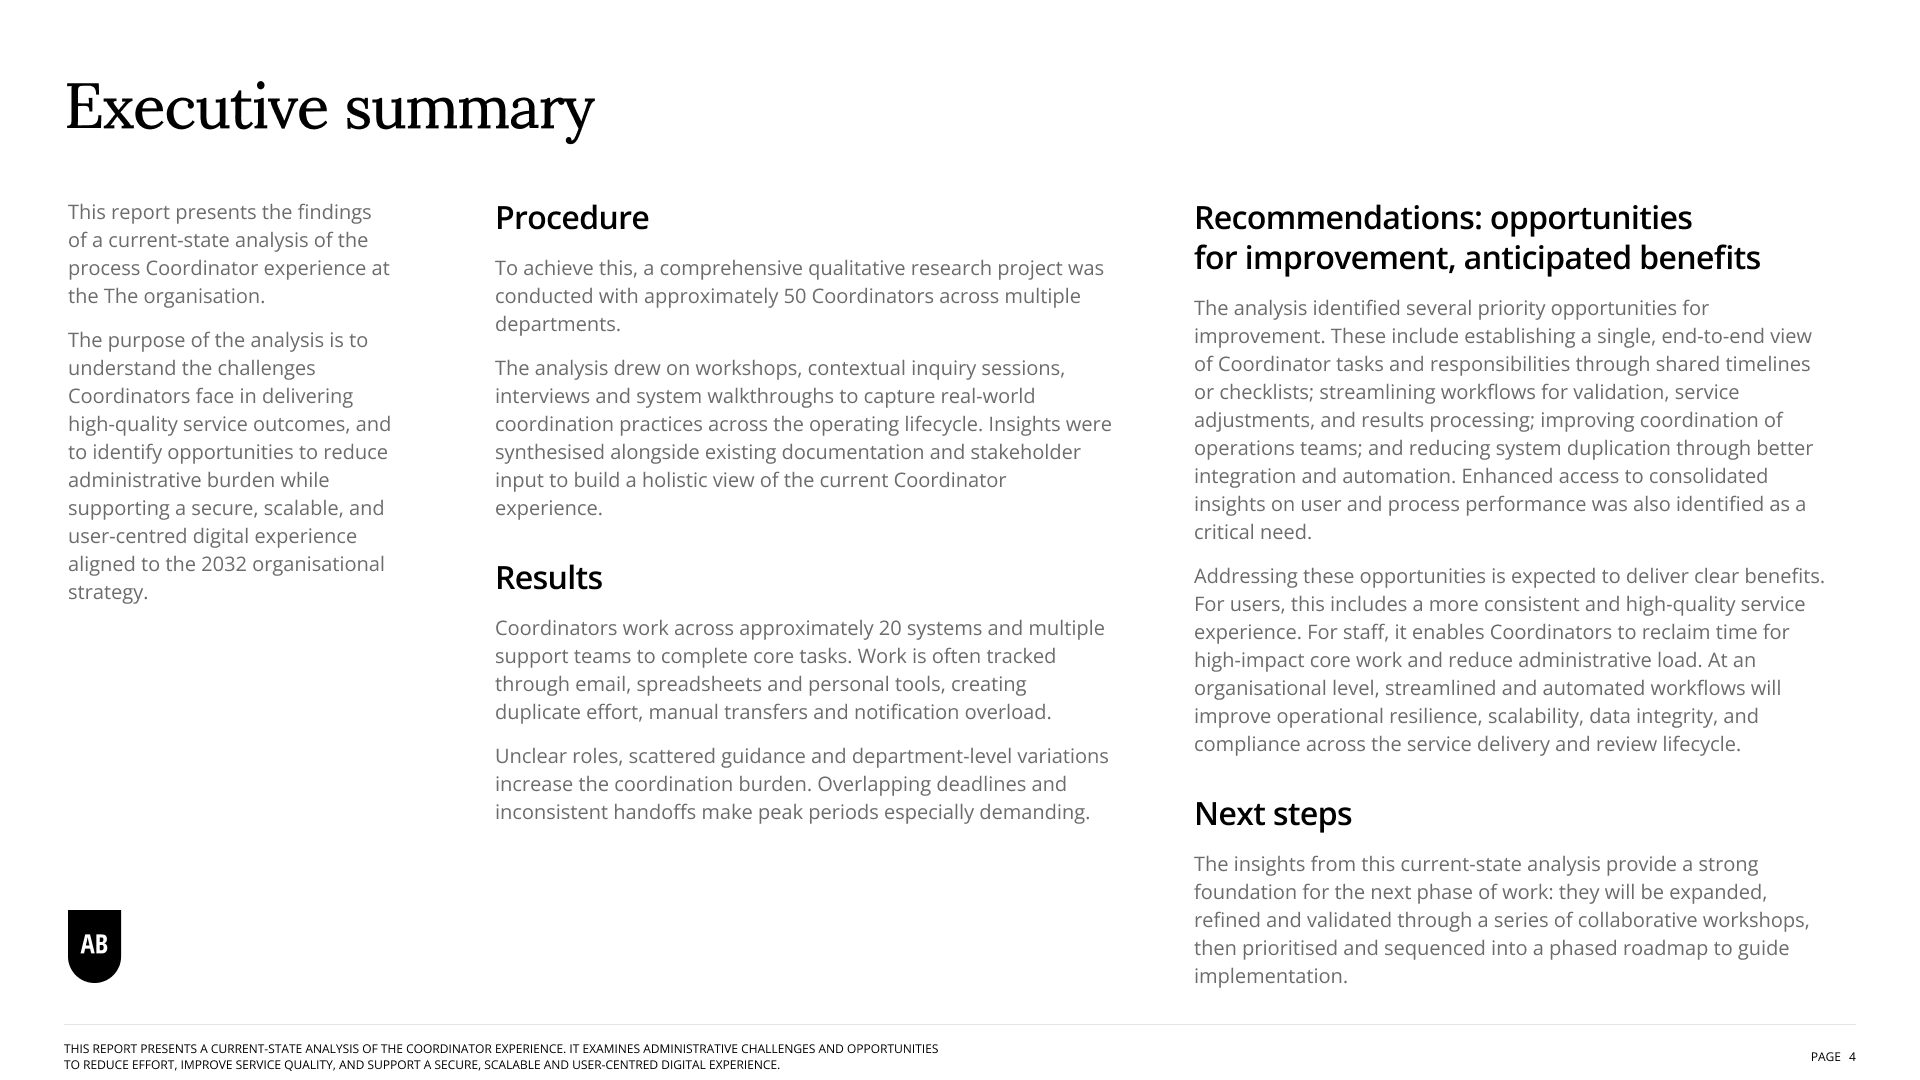
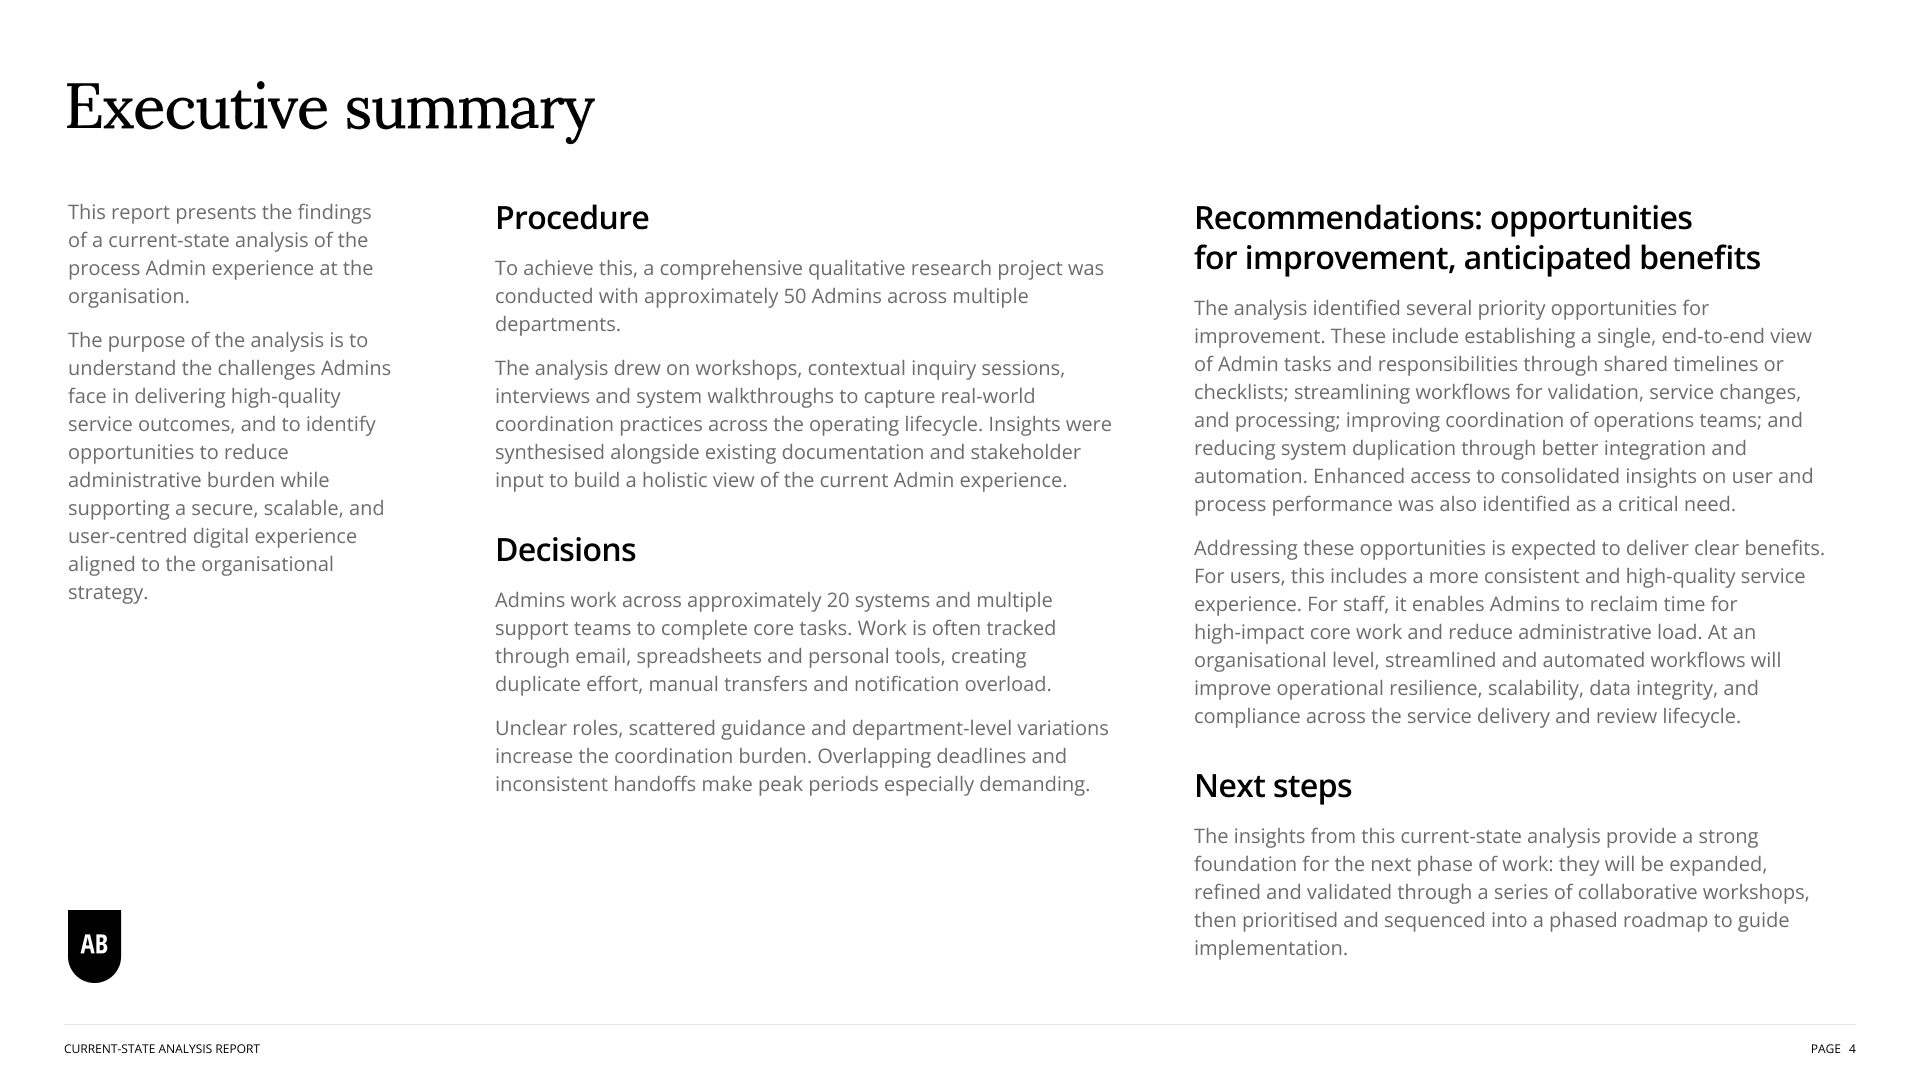
Education case: 16-page white-labelled subset of the report with NDA note; updated journey map and key tasks

diff --git a/projects/education-client/index.html b/projects/education-client/index.html
@@ -511,56 +511,20 @@
           <img src="assets/report/slide-02.jpg" width="1920" height="1080" loading="lazy" alt="Slide 2: Contents">
           <img src="assets/report/slide-03.jpg" width="1920" height="1080" loading="lazy" alt="Slide 3: 01. Executive summary">
           <img src="assets/report/slide-04.jpg" width="1920" height="1080" loading="lazy" alt="Slide 4: Executive summary">
-          <img src="assets/report/slide-05.jpg" width="1920" height="1080" loading="lazy" alt="Slide 5: 02. Context">
-          <img src="assets/report/slide-06.jpg" width="1920" height="1080" loading="lazy" alt="Slide 6: Context">
-          <img src="assets/report/slide-07.jpg" width="1920" height="1080" loading="lazy" alt="Slide 7: Aligned to Digital Operations strategy">
-          <img src="assets/report/slide-08.jpg" width="1920" height="1080" loading="lazy" alt="Slide 8: Business capabilities: operations and service">
-          <img src="assets/report/slide-09.jpg" width="1920" height="1080" loading="lazy" alt="Slide 9: 03. Methodology">
-          <img src="assets/report/slide-10.jpg" width="1920" height="1080" loading="lazy" alt="Slide 10: 3.1 Stakeholder engagement and sources of insight for the current state">
-          <img src="assets/report/slide-11.jpg" width="1920" height="1080" loading="lazy" alt="Slide 11: Alignment to personas">
-          <img src="assets/report/slide-12.jpg" width="1920" height="1080" loading="lazy" alt="Slide 12: Activities overview">
-          <img src="assets/report/slide-13.jpg" width="1920" height="1080" loading="lazy" alt="Slide 13: Activities overview (continued)">
-          <img src="assets/report/slide-14.jpg" width="1920" height="1080" loading="lazy" alt="Slide 14: Support team workshops">
-          <img src="assets/report/slide-15.jpg" width="1920" height="1080" loading="lazy" alt="Slide 15: Key user and stakeholder groups">
-          <img src="assets/report/slide-16.jpg" width="1920" height="1080" loading="lazy" alt="Slide 16: Document review">
-          <img src="assets/report/slide-17.jpg" width="1920" height="1080" loading="lazy" alt="Slide 17: Systems walkthrough">
-          <img src="assets/report/slide-18.jpg" width="1920" height="1080" loading="lazy" alt="Slide 18: 3.2 Coordinator experience aspects and analysis approach">
-          <img src="assets/report/slide-19.jpg" width="1920" height="1080" loading="lazy" alt="Slide 19: User journey">
-          <img src="assets/report/slide-20.jpg" width="1920" height="1080" loading="lazy" alt="Slide 20: Admin process improvement aspects">
-          <img src="assets/report/slide-21.jpg" width="1920" height="1080" loading="lazy" alt="Slide 21: Our approach">
-          <img src="assets/report/slide-22.jpg" width="1920" height="1080" loading="lazy" alt="Slide 22: Alignment to business capabilities">
-          <img src="assets/report/slide-23.jpg" width="1920" height="1080" loading="lazy" alt="Slide 23: 04. Key findings">
-          <img src="assets/report/slide-24.jpg" width="1920" height="1080" loading="lazy" alt="Slide 24: Fragmented systems and processes create an admin burden that takes coordinators away from high-value service delivery">
-          <img src="assets/report/slide-25.jpg" width="1920" height="1080" loading="lazy" alt="Slide 25: Adapted participant insights">
-          <img src="assets/report/slide-26.jpg" width="1920" height="1080" loading="lazy" alt="Slide 26: Adapted insights: future state">
-          <img src="assets/report/slide-27.jpg" width="1920" height="1080" loading="lazy" alt="Slide 27: Key pain points and system-related challenges">
-          <img src="assets/report/slide-28.jpg" width="1920" height="1080" loading="lazy" alt="Slide 28: What drives complexity across admin workflows?">
-          <img src="assets/report/slide-29.jpg" width="1920" height="1080" loading="lazy" alt="Slide 29: Root causes">
-          <img src="assets/report/slide-30.jpg" width="1920" height="1080" loading="lazy" alt="Slide 30: Key systems and applications">
-          <img src="assets/report/slide-31.jpg" width="1920" height="1080" loading="lazy" alt="Slide 31: Department system variation">
-          <img src="assets/report/slide-32.jpg" width="1920" height="1080" loading="lazy" alt="Slide 32: Support team perspectives">
-          <img src="assets/report/slide-33.jpg" width="1920" height="1080" loading="lazy" alt="Slide 33: 4.1 Key findings by Coordinator experience aspect">
-          <img src="assets/report/slide-34.jpg" width="1920" height="1080" loading="lazy" alt="Slide 34: Aspect 01: Process design and review">
-          <img src="assets/report/slide-35.jpg" width="1920" height="1080" loading="lazy" alt="Slide 35: Aspect 02: Managing operations staff">
-          <img src="assets/report/slide-36.jpg" width="1920" height="1080" loading="lazy" alt="Slide 36: Aspect 03: Timetabling">
-          <img src="assets/report/slide-37.jpg" width="1920" height="1080" loading="lazy" alt="Slide 37: Aspect 04: Managing process materials">
-          <img src="assets/report/slide-38.jpg" width="1920" height="1080" loading="lazy" alt="Slide 38: Aspect 05: Understanding user progress">
-          <img src="assets/report/slide-39.jpg" width="1920" height="1080" loading="lazy" alt="Slide 39: Aspect 06: Managing reviews">
-          <img src="assets/report/slide-40.jpg" width="1920" height="1080" loading="lazy" alt="Slide 40: Aspect 07: Service adjustments">
-          <img src="assets/report/slide-41.jpg" width="1920" height="1080" loading="lazy" alt="Slide 41: Aspect 08: Validation and results">
-          <img src="assets/report/slide-42.jpg" width="1920" height="1080" loading="lazy" alt="Slide 42: What’s most affected?">
-          <img src="assets/report/slide-43.jpg" width="1920" height="1080" loading="lazy" alt="Slide 43: 4.2 Key findings: other considerations">
-          <img src="assets/report/slide-44.jpg" width="1920" height="1080" loading="lazy" alt="Slide 44: Other considerations: process, policy and staffing">
-          <img src="assets/report/slide-45.jpg" width="1920" height="1080" loading="lazy" alt="Slide 45: Adapted participant insights">
-          <img src="assets/report/slide-46.jpg" width="1920" height="1080" loading="lazy" alt="Slide 46: 05. Next steps">
-          <img src="assets/report/slide-47.jpg" width="1920" height="1080" loading="lazy" alt="Slide 47: Next steps">
-          <img src="assets/report/slide-48.jpg" width="1920" height="1080" loading="lazy" alt="Slide 48: 06. Supporting artefacts">
-          <img src="assets/report/slide-49.jpg" width="1920" height="1080" loading="lazy" alt="Slide 49: Summary of activities and workshops">
-          <img src="assets/report/slide-50.jpg" width="1920" height="1080" loading="lazy" alt="Slide 50: Full list of participants involved">
-          <img src="assets/report/slide-51.jpg" width="1920" height="1080" loading="lazy" alt="Slide 51: Key systems and applications (definitions)">
-          <img src="assets/report/slide-52.jpg" width="1920" height="1080" loading="lazy" alt="Slide 52: Key systems and applications (definitions, continued)">
+          <img src="assets/report/slide-05.jpg" width="1920" height="1080" loading="lazy" alt="Slide 5: 03. Methodology">
+          <img src="assets/report/slide-06.jpg" width="1920" height="1080" loading="lazy" alt="Slide 6: 3.1 Stakeholder engagement and sources of insight for current state">
+          <img src="assets/report/slide-07.jpg" width="1920" height="1080" loading="lazy" alt="Slide 7: Activities overview">
+          <img src="assets/report/slide-08.jpg" width="1920" height="1080" loading="lazy" alt="Slide 8: Activities overview (continued)">
+          <img src="assets/report/slide-09.jpg" width="1920" height="1080" loading="lazy" alt="Slide 9: Key user and stakeholder groups">
+          <img src="assets/report/slide-10.jpg" width="1920" height="1080" loading="lazy" alt="Slide 10: Systems walkthrough">
+          <img src="assets/report/slide-11.jpg" width="1920" height="1080" loading="lazy" alt="Slide 11: Admin process improvement aspects">
+          <img src="assets/report/slide-12.jpg" width="1920" height="1080" loading="lazy" alt="Slide 12: What drives complexity across admin workflows?">
+          <img src="assets/report/slide-13.jpg" width="1920" height="1080" loading="lazy" alt="Slide 13: Root causes">
+          <img src="assets/report/slide-14.jpg" width="1920" height="1080" loading="lazy" alt="Slide 14: 06. Supporting artefacts">
+          <img src="assets/report/slide-15.jpg" width="1920" height="1080" loading="lazy" alt="Slide 15: Full list of participants involved">
+          <img src="assets/report/slide-16.jpg" width="1920" height="1080" loading="lazy" alt="Slide 16: Key systems and applications (definitions)">
         </div>
-        <figcaption class="caption">Main deliverable: current-state assessment report.</figcaption>
+        <figcaption class="caption">Main deliverable: current-state assessment report. Note: this is a subset of pages with branding removed and content white-labelled due to NDA restrictions.</figcaption>
       </figure>
 
       <section class="section" aria-labelledby="workload">
